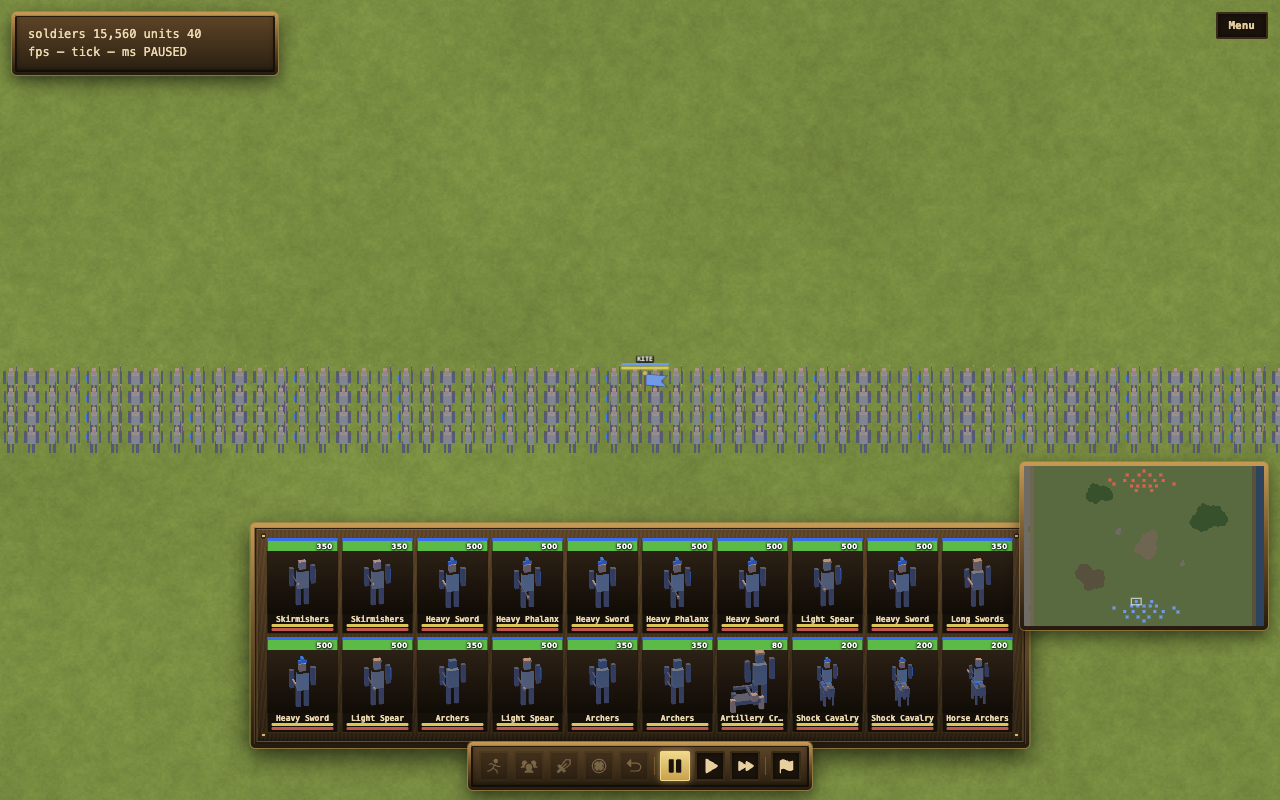
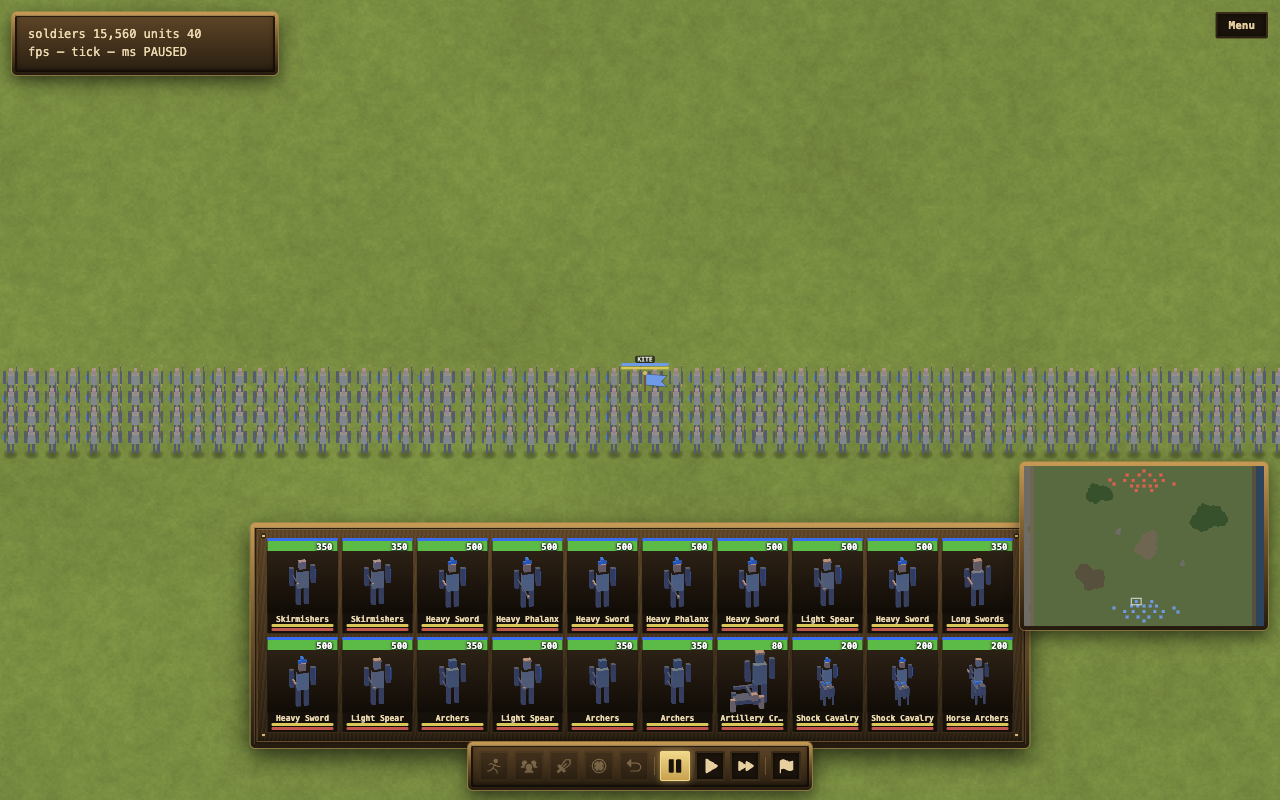
slice 2: shared soldier-shadow module; battle gains soldier shadows
Relocate the dead battle soldier-shadow decal to renderer-core as
SoldierShadowDecalPass with a { worldDepth: 'battle' | 'campaign' } option
(mirrors slice 1), beside the pipeline it shadows. Wire it into the battle
renderer as pass battle-soldier-shadows (world-decal, depth read, after the
crowd + scenery shadow); battle soldiers now cast grounding shadows at skinned
zoom. Update the battle pass-graph contract; re-bless battle-banner + battle-manual
(battle-initial is impostor-only, unchanged). router.ts repointed to the new
module. Lab shadow routes (terrain-elevation) stay 0px — behavior identical.

Unprimed critique: shadow reads as grounded shaded earth, no artifact. Known
limitation recorded: dense-block interior ranks self-occlude their decals
(inherent, pre-blessed in the lab; campaign's <=6 loose figures don't hit it).

Claude-Session: https://claude.ai/code/session_0199tNU7EjtCGwExwr5Tjhy7

Changed region(s): [[0.3125, 0.5625, 0.4375, 0.5938]]

diff --git a/packages/renderer-core/src/soldierShadowPass.ts b/packages/renderer-core/src/soldierShadowPass.ts
@@ -1,16 +1,17 @@
-import type { RawFrameShell, WorldRenderPass } from '../../../renderer-core/src/frameShell';
-import { WORLD_CAMERA_WGSL } from '../../../renderer-core/src/cameraWgsl';
-import { compileShader } from '../../../renderer-core/src/compileShader';
-import { gpuAlphaBlendColorTarget, gpuMultisample, gpuWorldDepthStencil } from '../../../renderer-core/src/pipelineContracts';
-import type { CrowdInstance } from '../../../crowd-runtime/src/instanceData';
+import type { RawFrameShell, WorldRenderPass } from './frameShell';
+import { WORLD_CAMERA_WGSL } from './cameraWgsl';
+import { compileShader } from './compileShader';
+import { gpuAlphaBlendColorTarget, gpuMultisample, gpuWorldDepthStencil } from './pipelineContracts';
+import type { SoldierCrowdDepthScene } from './skinnedPipeline';
+import type { CrowdInstance } from '../../crowd-runtime/src/instanceData';
 
 // A grounding shadow per soldier: a soft dark ellipse on the terrain surface at
 // the soldier's (x, y, elevation), so each figure is anchored to the ground
-// beneath it. This is the battle analogue of the campaign shadow decal — a
-// read-only depth pass under the soldiers, sitting on relief via the same
-// elevation the skinned soldiers use.
+// beneath it. Shared by battle and campaign — the crowd instances drive it, and
+// the world-depth function is selected per scene so the decal sorts on the same
+// relief the skinned soldiers use.
 
-export interface BattleSoldierShadowStats {
+export interface SoldierShadowStats {
   shadows: number;
   cameraContract: 'shared-world-camera-wgsl';
 }
@@ -35,18 +36,24 @@ fn fs(in: VsOut) -> @location(0) vec4f {
   return vec4f(0.06, 0.05, 0.04, alpha);
 }`;
 
-export class BattleSoldierShadowPass {
+export class SoldierShadowDecalPass {
   private pipeline: GPURenderPipeline;
   private quadBuffer: GPUBuffer;
   private instanceBuffer: GPUBuffer;
   private capacity = 0;
   private count = 0;
 
-  constructor(private shell: RawFrameShell) {
+  constructor(private shell: RawFrameShell, opts: { worldDepth?: SoldierCrowdDepthScene } = {}) {
     const device = shell.device;
-    const module = compileShader(device, SHADOW_WGSL, 'battle-soldier-shadow');
+    // Campaign soldiers sort against campaign geometry, which weights ground vs
+    // height differently than battle. Swap only the depth function; battle keeps
+    // the unchanged WGSL.
+    const wgsl = opts.worldDepth === 'campaign'
+      ? SHADOW_WGSL.replace('civsimBattleWorldDepth3d(world)', 'civsimCampaignWorldDepth3d(world)')
+      : SHADOW_WGSL;
+    const module = compileShader(device, wgsl, `soldier-shadow-${opts.worldDepth ?? 'battle'}`);
     this.pipeline = device.createRenderPipeline({
-      label: 'battle-soldier-shadow-pipeline',
+      label: 'soldier-shadow-pipeline',
       layout: device.createPipelineLayout({ bindGroupLayouts: [shell.cameraBindGroupLayout] }),
       vertex: {
         module,
@@ -61,9 +68,9 @@ export class BattleSoldierShadowPass {
       depthStencil: gpuWorldDepthStencil('read'),
       multisample: gpuMultisample(shell.sampleCount),
     });
-    this.quadBuffer = device.createBuffer({ label: 'battle-soldier-shadow-quad', size: 8 * 4, usage: GPUBufferUsage.VERTEX | GPUBufferUsage.COPY_DST });
+    this.quadBuffer = device.createBuffer({ label: 'soldier-shadow-quad', size: 8 * 4, usage: GPUBufferUsage.VERTEX | GPUBufferUsage.COPY_DST });
     device.queue.writeBuffer(this.quadBuffer, 0, new Float32Array([-1, -1, 1, -1, -1, 1, 1, 1]));
-    this.instanceBuffer = device.createBuffer({ label: 'battle-soldier-shadow-empty', size: 4 * 4, usage: GPUBufferUsage.VERTEX | GPUBufferUsage.COPY_DST });
+    this.instanceBuffer = device.createBuffer({ label: 'soldier-shadow-empty', size: 4 * 4, usage: GPUBufferUsage.VERTEX | GPUBufferUsage.COPY_DST });
   }
 
   upload(instances: CrowdInstance[], opts: { radius?: number } = {}) {
@@ -71,7 +78,7 @@ export class BattleSoldierShadowPass {
     if (instances.length > this.capacity) {
       this.capacity = Math.max(instances.length, this.capacity * 2, 256);
       this.instanceBuffer = this.shell.device.createBuffer({
-        label: 'battle-soldier-shadow-instances',
+        label: 'soldier-shadow-instances',
         size: this.capacity * 4 * 4,
         usage: GPUBufferUsage.VERTEX | GPUBufferUsage.COPY_DST,
       });
@@ -99,7 +106,7 @@ export class BattleSoldierShadowPass {
     pass.draw(4, this.count);
   }
 
-  stats(): BattleSoldierShadowStats {
+  stats(): SoldierShadowStats {
     return { shadows: this.count, cameraContract: 'shared-world-camera-wgsl' };
   }
 }

diff --git a/apps/renderer-lab/src/router.ts b/apps/renderer-lab/src/router.ts
@@ -14,7 +14,7 @@ import { buildLiveBattleCrowdFrame } from '../../../packages/game-renderer/src/b
 import { BattleMinimapPass } from '../../../packages/game-renderer/src/battle/minimapPass';
 import { BattleGroundCuePass, selectedUnitGroundCueVertices } from '../../../packages/game-renderer/src/battle/groundCuePass';
 import { BattleEffectLinePass } from '../../../packages/game-renderer/src/battle/effectLinePass';
-import { BattleSoldierShadowPass } from '../../../packages/game-renderer/src/battle/soldierShadowPass';
+import { SoldierShadowDecalPass } from '../../../packages/renderer-core/src/soldierShadowPass';
 import { BattleParticlePass, type BattleParticle } from '../../../packages/game-renderer/src/battle/particlePass';
 import { battleUnitsInRect, cssToBattleWorld, liveBattlePickUnits, pickBattleUnit, type BattlePickUnit, type RendererBattlePickCamera } from '../../../packages/game-renderer/src/battle/pickingDebug';
 import { BattleTerrainPass, type BattleTerrainFixture } from '../../../packages/game-renderer/src/battle/terrainPass';
@@ -222,7 +222,7 @@ async function routeBattleEffects(ctx: LabContext) {
 
   const shell = await createConfiguredShell(ctx.canvas, { x: 0, y: 0, zoom: 24, pitch: 0.28, yaw: 0 });
   const pipeline = await createSkinnedPipeline(shell, [0.20, 0.42, 0.88], vat);
-  const shadows = new BattleSoldierShadowPass(shell);
+  const shadows = new SoldierShadowDecalPass(shell);
   const fx = new BattleParticlePass(shell);
   shadows.upload(instances);
   fx.upload(particles);
@@ -285,7 +285,7 @@ async function routeBattleElevation(ctx: LabContext) {
 
   const shell = await createConfiguredShell(ctx.canvas, { x: 0, y: 0, zoom: 26, pitch: 0.30, yaw: 0 });
   const pipeline = await createSkinnedPipeline(shell, [0.20, 0.42, 0.88], vat);
-  const shadows = new BattleSoldierShadowPass(shell);
+  const shadows = new SoldierShadowDecalPass(shell);
 
   const start = performance.now();
   const tick = () => {
@@ -1625,7 +1625,7 @@ async function routeCampaignCrowdSpike(ctx: LabContext) {
   const vat = await loadPlaceholderVat();
   const meshes = createPlaceholderSoldierMeshes([0.30, 0.36, 0.74]);
   const pipeline = new SkinnedCrowdPipeline(shell, meshes, vat, kit, { worldDepth: 'campaign' });
-  const shadows = new BattleSoldierShadowPass(shell);
+  const shadows = new SoldierShadowDecalPass(shell);
   const ramp = (x: number, _y: number) => x * 0.12;
   const armyX = 0;
   const armyY = 0.5;
@@ -2533,7 +2533,7 @@ async function routeBattleTerrain3d(ctx: LabContext) {
   // height field as the terrain mesh and props, so feet and shadows ride the
   // surface (the slice-03 movement/seating invariant on the real source).
   const terrainHeight = (x: number, y: number) => terrainHeightAt(field, x, y);
-  let soldiers: { pipeline: Awaited<ReturnType<typeof createSkinnedPipeline>>; shadows: BattleSoldierShadowPass; count: number; elevationMatches: boolean; elevationSpan: number } | null = null;
+  let soldiers: { pipeline: Awaited<ReturnType<typeof createSkinnedPipeline>>; shadows: SoldierShadowDecalPass; count: number; elevationMatches: boolean; elevationSpan: number } | null = null;
   if (view === 'soldiers') {
     const vat = await loadPlaceholderVat();
     const cols = 16;
@@ -2554,7 +2554,7 @@ async function routeBattleTerrain3d(ctx: LabContext) {
     const elevs = instances.map((i) => i.elevation ?? 0);
     const pipeline = await createSkinnedPipeline(shell, [0.30, 0.36, 0.74], vat);
     pipeline.upload(instances, { forcedClip: 'march', phaseOffset: 0, size: 1 });
-    const shadows = new BattleSoldierShadowPass(shell);
+    const shadows = new SoldierShadowDecalPass(shell);
     shadows.upload(instances);
     soldiers = { pipeline, shadows, count: instances.length, elevationMatches, elevationSpan: Math.max(...elevs) - Math.min(...elevs) };
   }

diff --git a/web/src/battle/renderer.ts b/web/src/battle/renderer.ts
@@ -34,6 +34,7 @@ import { gpuMultisample } from "../../../packages/renderer-core/src/pipelineCont
 import { fatalSurfaceFor, showFatalErrorSurface } from "../shared/fatalError";
 import { WORLD_CAMERA_WGSL } from "../../../packages/renderer-core/src/cameraWgsl";
 import { SkinnedCrowdPipeline } from "../../../packages/renderer-core/src/skinnedPipeline";
+import { SoldierShadowDecalPass } from "../../../packages/renderer-core/src/soldierShadowPass";
 import {
   loadClassVats,
   loadPlaceholderKit,
@@ -58,6 +59,7 @@ export class BattleRenderer {
   private horizon: BattleHorizonPass | null = null;
   private heightField: TerrainHeightField | null = null;
   private crowd: SkinnedCrowdPipeline | null = null;
+  private soldierShadows: SoldierShadowDecalPass | null = null;
   private groundCues: BattleGroundCuePass | null = null;
   private effectLines: BattleEffectLinePass | null = null;
   private tris: BattleTrianglePass | null = null;
@@ -103,6 +105,7 @@ export class BattleRenderer {
     this.markers = [];
     this.triangleVerts = new Float32Array();
     this.crowd?.upload([]);
+    this.soldierShadows?.upload([]);
     this.effectLines?.upload(this.triangleVerts);
     this.tris?.upload(this.triangleVerts);
     this.debugBlocks?.upload(this.triangleVerts);
@@ -243,6 +246,7 @@ export class BattleRenderer {
     }
     const uploadStart = performance.now();
     this.crowd.upload(this.instances);
+    this.soldierShadows?.upload(this.instances);
     this.debugBlocks?.upload(
       this.blockMode
         ? buildDebugBlockTriangles(positions, alive, this.soldierUnit, this.unitTeam, count)
@@ -273,6 +277,7 @@ export class BattleRenderer {
       !this.shell ||
       !this.ground ||
       !this.crowd ||
+      !this.soldierShadows ||
       !this.groundCues ||
       !this.effectLines ||
       !this.tris ||
@@ -334,6 +339,13 @@ export class BattleRenderer {
           phase: "world-depth",
           depth: "read",
           draw: (pass: WorldRenderPass) => this.scenery!.drawShadows(pass),
+        },
+        {
+          id: "battle-soldier-shadows",
+          role: "world-decal",
+          phase: "world-depth",
+          depth: "read",
+          draw: (pass: WorldRenderPass) => this.soldierShadows!.draw(pass),
         },
         {
           id: "battle-ground-cues",
@@ -456,6 +468,7 @@ export class BattleRenderer {
       await loadClassVats(kit),
       kit,
     );
+    this.soldierShadows = new SoldierShadowDecalPass(this.shell);
   }
 }
 

diff --git a/specs/unified-soldier-rendering/README.md b/specs/unified-soldier-rendering/README.md
@@ -134,8 +134,8 @@ Dependency: 0 informs 1. 1 unblocks 2 and 4. 2 (shadow relocated) is a dependenc
 
 ## Next Agent Prompt
 
-**Status:** Slices 0 (spike) + 1 (depth param) landed. Next: Slice 2 (shared shadow into
-battle). Last updated 2026-07-01.
+**Status:** Slices 0 (spike), 1 (depth param), 2 (shared shadow → battle) landed. Next:
+Slice 3 (figure sampler). Last updated 2026-07-01.
 
 **Environment notes (important):**
 - Build on `feat/unified-soldier-rendering`, cut from `208fdbe7`. Pulling latest
@@ -154,15 +154,19 @@ The spike's remaining value is the campaign-crowd eyeball + perf number; it will
 as a renderer-lab route on top of the real depth param next, doubling as the Slice 4
 de-risk. Read the four Key Seams above before continuing.
 
-**Start here:** Slice 2 — [shared shadow into battle](slices/02-shared-shadow-battle.md).
-Relocate `packages/game-renderer/src/battle/soldierShadowPass.ts` →
-`packages/renderer-core/src/soldierShadowPass.ts`, rename `BattleSoldierShadowPass` →
-`SoldierShadowDecalPass`, add the `worldDepthFn: 'battle' | 'campaign'` option (mirror
-Slice 1's `.replace` of `civsimBattleWorldDepth3d(world)`), and wire it into
-`web/src/battle/renderer.ts` as pass `battle-soldier-shadows` (world-decal, depth read)
-so battle soldiers finally cast shadows. Update the battle contract in
-`web/scenes/_renderer-contract.mjs`. The spike already imports `BattleSoldierShadowPass`
-from the old path — update that import (or leave the spike, since Slice 6 deletes it).
+**Start here:** Slice 3 — [figure sampler](slices/03-figure-sampler.md). Add a pure
+`packages/crowd-runtime/src/stackCrowd.ts`: `buildStackCrowd(unitsByClass, opts) ->
+CrowdInstance[]`, figure count `clamp(round(6 * unitCount / stackUnitCap), 1, 6)`, class
+mix by largest-remainder from `unitsByClass`, class id clamped via `modelLookForClass`,
+deterministic by army id, elevation from a sampler. No render change yet. Then Slice 4
+wires it into the campaign renderer (uses `{ worldDepth: 'campaign' }` +
+`SoldierShadowDecalPass(shell, { worldDepth: 'campaign' })` — both already exist).
+
+**Shared shadow module (Slice 2, done):** `packages/renderer-core/src/soldierShadowPass.ts`
+(`SoldierShadowDecalPass`, `{ worldDepth }` opt). Wired into battle as `battle-soldier-shadows`;
+battle now casts grounding shadows at skinned zoom (re-blessed battle-banner + battle-manual;
+battle-initial is impostor-only, unchanged). Old `game-renderer/.../battle/soldierShadowPass.ts`
+deleted; router.ts repointed. Reuse this exact pass in campaign in Slice 4.
 
 **Spike outcome (Slice 0, done):** GO. Shared crowd renders on campaign depth, seats on
 relief, sorts against campaign geometry, 0.85ms/6 figures. Scale decision: campaign figure
@@ -186,7 +190,9 @@ relief, sorts against campaign geometry, 0.85ms/6 figures. Scale decision: campa
 - [x] Slice 1 — parameterize scene depth in pipeline (`SoldierCrowdDepthScene`,
       `SkinnedCrowdPipeline` `{ worldDepth }` opt; battle byte-identical, verified via
       per-class-vat + battle-terrain-elevation 0px). Shadow-pass half moves to Slice 2.
-- [ ] Slice 2 — relocate shared shadow, wire into battle
+- [x] Slice 2 — relocate shared shadow → `renderer-core/soldierShadowPass.ts`
+      (`SoldierShadowDecalPass`); wired into battle (`battle-soldier-shadows`), contract
+      updated, baselines re-blessed, lab routes 0px. Battle now casts soldier shadows.
 - [ ] Slice 3 — pure representative-figure sampler
 - [ ] Slice 4 — campaign crowd replacement (+ split banner, + faction bucket)
 - [ ] Slice 5 — zoom LOD collapse

diff --git a/specs/unified-soldier-rendering/slices/02-shared-shadow-battle.md b/specs/unified-soldier-rendering/slices/02-shared-shadow-battle.md
@@ -59,3 +59,21 @@ Battle contract (now including the new decal pass); campaign entirely untouched.
 Shadow softness, radius, and darkness are the knobs (`SHADOW_WGSL` alpha `0.34`, radius
 `0.62`, mounted `×1.5`). If David finds them too heavy/light, tune here — it sets the look
 campaign inherits.
+
+## Review outcome (2026-07-01) — accepted, one known limitation
+
+Unprimed screenshot-critique on the re-blessed battle line: the shadow **asset is good** —
+soft, desaturated-olive shaded earth (~35% luminance drop), feathered edges, no smear /
+halo / artifact, consistent along the row, correctly pinned under the feet (a slight
+forward offset, minor).
+
+**Known limitation (accepted, not a regression):** in a *dense* multi-rank block only the
+front rank's shadow is visible — each interior soldier's small contact ellipse is occluded
+by the body of the man in the rank ahead (decal is depth-`read`, drawn after the opaque
+crowd; it cannot be reordered before the crowd without violating the world-decal boundary).
+This is inherent to the existing per-soldier decal — the *same* shadow already blessed in
+the terrain-elevation lab block — so battle gaining it is a net improvement over none, not a
+new defect. The feature's real target, **campaign stacks of ≤6 loose figures, does not hit
+this** (figures don't stand rank-behind-rank). Revisit only if David wants denser battle
+blocks fully grounded (would need a per-unit merged blob or a larger radius, a separate
+polish slice that also re-blesses the lab block).
